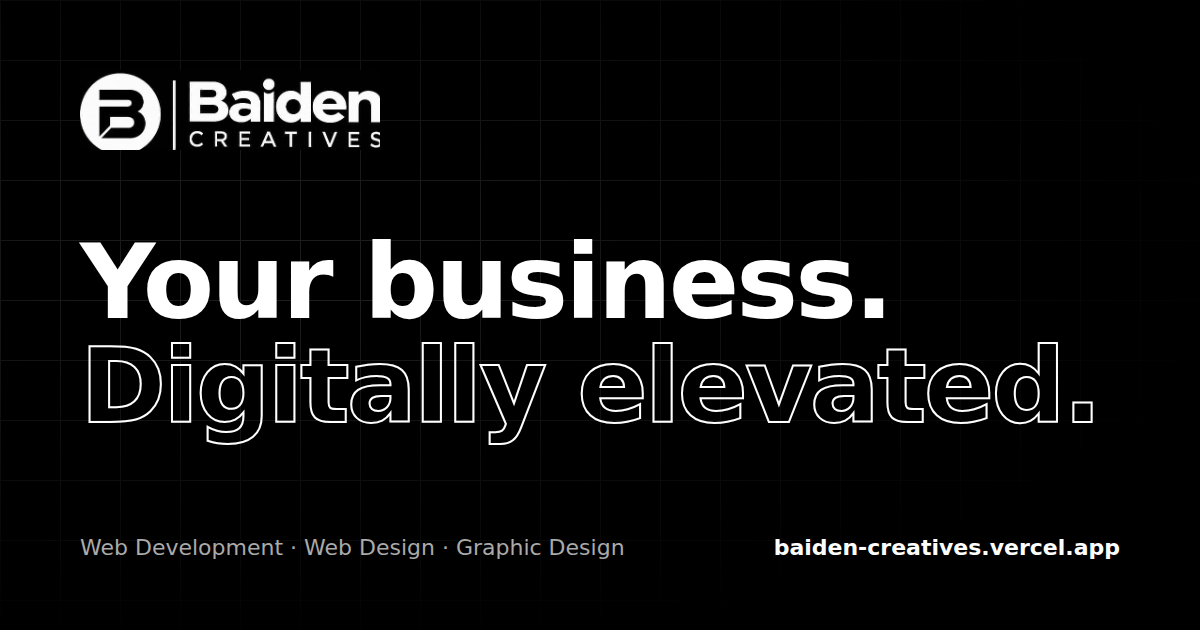
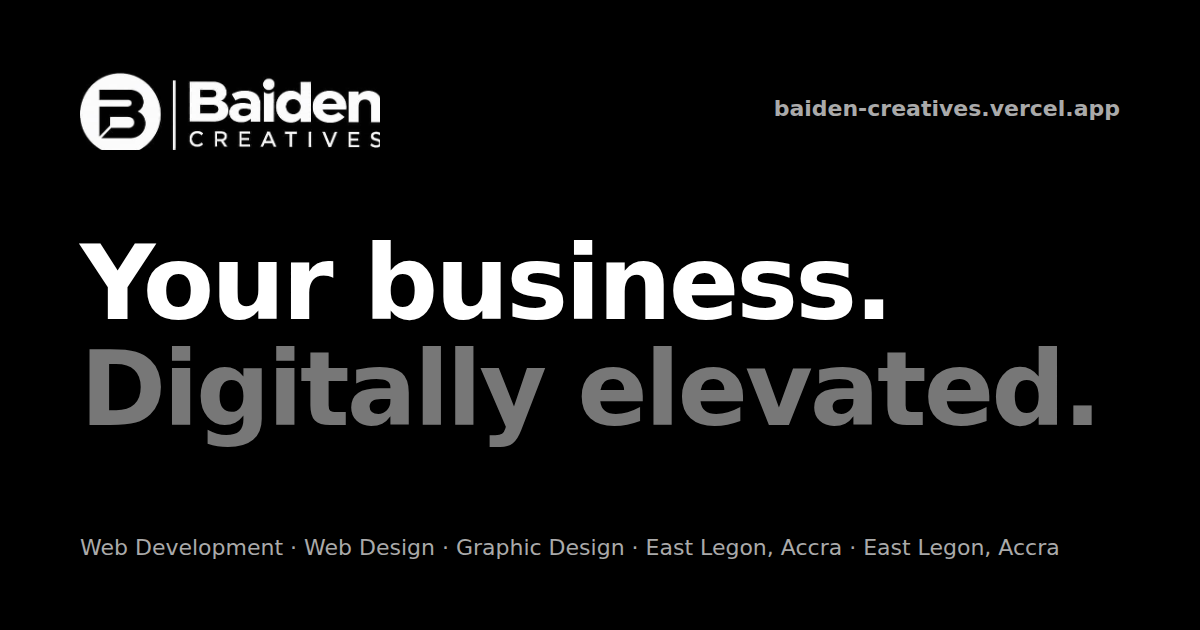
Add portfolio section, remove decorative effects, refine copy and spacing
Claude-Session: https://claude.ai/code/session_01X821qqvNfVmnjT5baqLfEV

diff --git a/index.html b/index.html
@@ -50,17 +50,17 @@
 <link rel="preconnect" href="https://fonts.gstatic.com" crossorigin>
 <link rel="preload" as="image" href="assets/logo.jpg">
 <link href="https://fonts.googleapis.com/css2?family=Inter:wght@400;500;600&family=Space+Grotesk:wght@500;700&display=swap" rel="stylesheet">
-<link rel="stylesheet" href="style.css?v=7">
+<link rel="stylesheet" href="style.css?v=8">
 </head>
 <body>
 <a class="skip" href="#top">Skip to content</a>
 <div class="progress" aria-hidden="true"></div>
-<div class="cursor" aria-hidden="true"></div>
 
 <header class="nav" id="nav">
   <a href="#top" class="logo" aria-label="Baiden Creatives home"><img src="assets/logo.jpg" alt="Baiden Creatives logo" width="263" height="105" decoding="async"></a>
   <nav id="menu">
     <a href="#services">Services</a>
+    <a href="#work">Work</a>
     <a href="#pricing">Pricing</a>
     <a href="#team">About</a>
     <a href="#faq">FAQ</a>
@@ -72,37 +72,34 @@
 <main id="top" tabindex="-1">
 <section class="hero">
   <canvas id="net" aria-hidden="true"></canvas>
-  <div class="glow" aria-hidden="true"></div>
-  <div class="orbit" aria-hidden="true"><div class="ring r1"><i></i></div><div class="ring r2"><i></i><i></i></div><div class="ring r3"><i></i></div><div class="core"></div></div>
   <div class="grid-bg"></div>
-  <p class="eyebrow reveal"><span class="dot"></span>Digital Creative Studio · East Legon, Accra</p>
+  <p class="eyebrow reveal">Digital Creative Studio · East Legon, Accra</p>
   <h1 class="reveal"><span class="sr">Baiden Creatives: </span>
     <span>Your business.</span>
-    <span class="outline">Digitally elevated.</span>
+    <span class="soft">Digitally elevated.</span>
   </h1>
-  <p class="role reveal">We craft <span class="swap" data-words="websites,brands,visuals,web apps,experiences">websites</span></p>
   <p class="lead reveal">We combine design and technology to turn ideas and businesses into professional digital experiences: websites, visuals and brands that look established and ready to grow.</p>
   <div class="cta reveal">
     <a href="#contact" class="btn">Start a project</a>
     <a href="#services" class="btn ghost">See what we do</a>
   </div>
   <div id="services" class="disc">
-    <div class="head"><div><p class="eyebrow">What we do</p><h2>Three disciplines. <br>One studio.</h2></div>
+    <div class="head"><div><p class="eyebrow">Services</p><h2>What we do</h2></div>
       <div class="arrows" data-arrows><button aria-label="Previous">←</button><button aria-label="Next">→</button></div></div>
     <div class="hscroll" data-scroll>
-    <article class="card tilt">
+    <article class="card">
       <span class="num">01</span>
       <h3>Web Development</h3>
       <p>Fast, functional websites and web apps built around how your business actually works.</p>
       <ul><li>Business &amp; corporate sites</li><li>E-commerce</li><li>Booking websites</li></ul>
     </article>
-    <article class="card tilt">
+    <article class="card">
       <span class="num">02</span>
       <h3>Web Design</h3>
       <p>Clean, modern, mobile-first interfaces designed to earn trust and convert visitors.</p>
       <ul><li>UI / UX design</li><li>Landing pages</li><li>Website redesign</li></ul>
     </article>
-    <article class="card tilt">
+    <article class="card">
       <span class="num">03</span>
       <h3>Graphic Design</h3>
       <p>Visuals that make your brand look sharp everywhere it shows up, online and offline.</p>
@@ -119,16 +116,35 @@
   </div></div>
 </section>
 
+<section id="work" class="sec">
+  <p class="eyebrow reveal">Portfolio</p>
+  <div class="head"><h2 class="reveal">Selected work</h2><div class="arrows" data-arrows><button aria-label="Previous">←</button><button aria-label="Next">→</button></div></div>
+  <div class="hscroll" data-scroll>
+    <article class="work">
+      <a class="shot" href="#top" aria-label="Baiden Creatives website"><img src="assets/og.png" alt="Baiden Creatives website preview" width="1200" height="630" loading="lazy"></a>
+      <div class="meta"><div><h3>Baiden Creatives</h3><p>Brand website</p></div><span>Web design · Development · SEO</span></div>
+    </article>
+    <article class="work empty">
+      <a class="shot" href="#contact" aria-label="Start a project"><span class="plus">+</span></a>
+      <div class="meta"><div><h3>Your project</h3><p>Next in this space</p></div><span>Start a project</span></div>
+    </article>
+    <article class="work empty">
+      <a class="shot" href="#contact" aria-label="Start a project"><span class="plus">+</span></a>
+      <div class="meta"><div><h3>Your brand</h3><p>Next in this space</p></div><span>Start a project</span></div>
+    </article>
+  </div>
+</section>
+
 <section id="pricing" class="sec">
-  <p class="eyebrow reveal">01 — Pricing</p>
-  <div class="head"><h2 class="reveal">Clear packages.<br>No surprises.</h2><div class="arrows" data-arrows><button aria-label="Previous">←</button><button aria-label="Next">→</button></div></div>
+  <p class="eyebrow reveal">Pricing</p>
+  <div class="head"><h2 class="reveal">Website packages</h2><div class="arrows" data-arrows><button aria-label="Previous">←</button><button aria-label="Next">→</button></div></div>
   <div class="hscroll" data-scroll><article class="pcard"><span class="tag">&nbsp;</span><h3>Starter</h3><p class="best">Individuals &amp; small businesses</p><div class="price"><small>&nbsp;</small><span>GH₵</span>2,500</div><ul><li>1–3 page custom website</li><li>Responsive on all devices</li><li>Contact form &amp; WhatsApp</li><li>Domain, hosting &amp; SSL</li><li>Live in 5–7 days</li></ul><a href="#contact" class="btn ghost">Get started</a></article><article class="pcard featured"><span class="tag">Most popular</span><h3>Business</h3><p class="best">Growing businesses</p><div class="price"><small>&nbsp;</small><span>GH₵</span>5,000</div><ul><li>Everything in Starter</li><li>Up to 7 pages, custom UI/UX</li><li>Gallery, portfolio &amp; blog</li><li>Analytics &amp; Search Console</li><li>30 days support</li></ul><a href="#contact" class="btn">Get started</a></article><article class="pcard"><span class="tag">&nbsp;</span><h3>Professional</h3><p class="best">Established brands &amp; organisations</p><div class="price"><small>&nbsp;</small><span>GH₵</span>8,500</div><ul><li>Everything in Business</li><li>Up to 12 pages, premium UI/UX</li><li>CMS &amp; advanced animations</li><li>Booking/request system</li><li>60 days support &amp; training</li></ul><a href="#contact" class="btn ghost">Get started</a></article><article class="pcard"><span class="tag">&nbsp;</span><h3>E-Commerce</h3><p class="best">Online sellers</p><div class="price"><small>From </small><span>GH₵</span>10,000</div><ul><li>Catalogue, cart &amp; checkout</li><li>Mobile Money &amp; card payments</li><li>Customer accounts</li><li>Admin dashboard &amp; inventory</li><li>3–6 weeks</li></ul><a href="#contact" class="btn ghost">Get started</a></article><article class="pcard"><span class="tag">&nbsp;</span><h3>Custom Web App</h3><p class="best">Complex systems</p><div class="price"><small>From </small><span>GH₵</span>15,000</div><ul><li>Logins, roles &amp; dashboards</li><li>Databases &amp; APIs</li><li>Payments &amp; notifications</li><li>Portals &amp; booking systems</li><li>Quoted after assessment</li></ul><a href="#contact" class="btn ghost">Get started</a></article></div>
-  <p class="foot reveal">Also offering graphic design, brand design and website care plans. Prices are starting guides, so get in touch for a tailored quote.</p>
+  <p class="foot reveal">Also offering graphic design, brand design and website care plans. Prices are starting points. Contact us for a quote based on your project.</p>
 </section>
 
 <section id="team" class="sec">
-  <p class="eyebrow reveal">02 — About</p>
-  <h2 class="reveal">Meet the founders.</h2>
+  <p class="eyebrow reveal">About</p>
+  <h2 class="reveal">Who we are</h2>
   <p class="about reveal">Baiden Creatives is a digital creative studio in East Legon, Accra, helping businesses, organisations and entrepreneurs look established online, with websites, web apps and visuals built to earn trust and drive growth.</p>
   <div class="founders">
     <div class="founder reveal"><h3>Baiden David</h3><p>Co-founder</p></div>
@@ -137,14 +153,14 @@
 </section>
 
 <section id="faq" class="sec">
-  <p class="eyebrow reveal">03 — FAQ</p>
-  <h2 class="reveal">Quick answers.</h2>
+  <p class="eyebrow reveal">FAQ</p>
+  <h2 class="reveal">Frequently asked questions</h2>
   <div class="faq"><details class="reveal"><summary><span>How does payment work?</span><i aria-hidden="true">+</i></summary><p>Projects under GH₵10,000 are paid 60% upfront and 40% before launch. Larger projects are paid 50% upfront, 30% during development and 20% before final deployment.</p></details><details class="reveal"><summary><span>What is not included in the package price?</span><i aria-hidden="true">+</i></summary><p>Domain and hosting renewals, premium plugins, paid APIs, stock images, professional photography, copywriting, large-scale data entry, third-party subscriptions, payment gateway charges, and major changes outside the agreed scope.</p></details><details class="reveal"><summary><span>What happens when my website launches?</span><i aria-hidden="true">+</i></summary><p>We handle the full launch: domain and hosting setup, SSL/HTTPS, mobile and tablet optimisation, final testing and deployment. Business and Professional packages also include Google Analytics, Google Search Console, an XML sitemap and search indexing setup.</p></details><details class="reveal"><summary><span>What do I need to provide to get started?</span><i aria-hidden="true">+</i></summary><p>Your logo, images, business information, contact details, social media links and any content you already have. If you do not have these yet, we will guide you through it.</p></details><details class="reveal"><summary><span>Where is Baiden Creatives based, and do you work with clients outside Accra?</span><i aria-hidden="true">+</i></summary><p>Baiden Creatives is based in East Legon, Accra, Ghana. We work with businesses, organisations and individuals across Ghana, and projects can be delivered fully remotely.</p></details></div>
 </section>
 
 <section id="contact" class="sec contact">
-  <p class="eyebrow reveal">04 — Contact</p>
-  <h2 class="reveal big">Let's build<br><span class="outline">something dope.</span></h2>
+  <p class="eyebrow reveal">Contact</p>
+  <h2 class="reveal big">Tell us about<br>your project.</h2>
   <div class="links reveal">
     <a href="https://wa.me/233558362423" target="_blank" rel="noopener"><small>WhatsApp</small>0558 362 423</a>
     <a href="tel:+233558362423"><small>Call</small>+233 55 836 2423</a>
@@ -158,7 +174,7 @@
     <input name="phone" placeholder="Phone / WhatsApp">
     <select name="service"><option>Web Development</option><option>Web Design</option><option>Graphic Design</option><option>Full package</option></select>
     <textarea name="msg" rows="4" placeholder="Tell us about your project" required></textarea>
-    <button class="btn" type="submit">Send via email</button>
+    <button class="btn" type="submit">Send message</button>
   </form>
 </section>
 </main>
@@ -166,11 +182,11 @@
 <footer>
   <div class="fgrid">
     <div><strong>Baiden Creatives</strong><p>Web development, web design and graphic design. Based in East Legon, Accra, serving businesses across Ghana.</p></div>
-    <div><a href="#services">Services</a><a href="#pricing">Pricing</a><a href="#faq">FAQ</a><a href="#contact">Contact</a></div>
+    <div><a href="#services">Services</a><a href="#work">Work</a><a href="#pricing">Pricing</a><a href="#faq">FAQ</a><a href="#contact">Contact</a></div>
     <div><a href="mailto:edstudios77@gmail.com">edstudios77@gmail.com</a><a href="tel:+233558362423">+233 55 836 2423</a><a href="https://www.instagram.com/baidx.system" rel="noopener me">Instagram</a><a href="https://www.tiktok.com/@he_is.ceo" rel="noopener me">TikTok</a></div>
   </div>
   <div class="fbar"><span>© <span id="yr">2026</span> Baiden Creatives. East Legon, Accra, Ghana.</span><a href="#top">Back to top ↑</a></div>
 </footer>
-<script src="script.js?v=7"></script>
+<script src="script.js?v=8"></script>
 </body>
 </html>

diff --git a/script.js b/script.js
@@ -6,14 +6,6 @@ burger.onclick=()=>{const o=menu.classList.toggle('open');burger.classList.toggl
 menu.querySelectorAll('a').forEach(a=>a.onclick=()=>{menu.classList.remove('open');burger.classList.remove('open')});
 const io=new IntersectionObserver(es=>es.forEach(e=>{if(e.isIntersecting){e.target.classList.add('in');io.unobserve(e.target)}}),{threshold:.12});
 document.querySelectorAll('.reveal').forEach((el,i)=>{el.style.transitionDelay=(i%4)*80+'ms';io.observe(el)});
-// cursor + tilt
-const cur=$('.cursor');
-addEventListener('mousemove',e=>{cur.style.opacity=1;cur.style.left=e.clientX+'px';cur.style.top=e.clientY+'px'});
-document.querySelectorAll('a,button,.chips span').forEach(el=>{el.addEventListener('mouseenter',()=>cur.classList.add('big'));el.addEventListener('mouseleave',()=>cur.classList.remove('big'))});
-document.querySelectorAll('.tilt').forEach(c=>{
-  c.addEventListener('mousemove',e=>{const r=c.getBoundingClientRect(),x=(e.clientX-r.left)/r.width-.5,y=(e.clientY-r.top)/r.height-.5;c.style.transform=`perspective(800px) rotateY(${x*8}deg) rotateX(${-y*8}deg)`});
-  c.addEventListener('mouseleave',()=>c.style.transform='');
-});
 // contact form -> opens email
 $('#form').addEventListener('submit',e=>{
   e.preventDefault();const f=new FormData(e.target);
@@ -46,18 +38,7 @@ document.querySelectorAll('.hero h1 > span:not(.sr)').forEach((sp,k)=>{
   const words=sp.textContent.trim().split(/\s+/);
   sp.innerHTML=words.map((w,i)=>`<span class="w"><i style="--i:${k*3+i}">${[...w].map(c=>`<span class="ch">${c}</span>`).join('')}</i></span>`).join(' ');
 });
-// spotlight + magnetic
-document.querySelectorAll('.card,.pcard').forEach(c=>c.addEventListener('mousemove',e=>{const r=c.getBoundingClientRect();c.style.setProperty('--mx',e.clientX-r.left+'px');c.style.setProperty('--my',e.clientY-r.top+'px')}));
-if(!reduce&&matchMedia('(hover:hover)').matches)document.querySelectorAll('.btn').forEach(b=>{b.classList.add('mag');
-  b.addEventListener('mousemove',e=>{const r=b.getBoundingClientRect();b.style.transform=`translate(${(e.clientX-r.left-r.width/2)*.2}px,${(e.clientY-r.top-r.height/2)*.3}px)`});
-  b.addEventListener('mouseleave',()=>b.style.transform='')});
-// hero: parallax glow + orbit
 const hero=document.querySelector('.hero');
-hero.addEventListener('mousemove',e=>{const r=hero.getBoundingClientRect();hero.style.setProperty('--gx',e.clientX-r.left+'px');hero.style.setProperty('--gy',e.clientY-r.top+'px');
-  hero.style.setProperty('--px',((e.clientX-r.left)/r.width-.5).toFixed(3));hero.style.setProperty('--py',((e.clientY-r.top)/r.height-.5).toFixed(3))});
-// rotating words
-(function(){const el=document.querySelector('.swap');if(!el||reduce)return;const w=el.dataset.words.split(',');let i=0;
-  setInterval(()=>{el.classList.add('out');setTimeout(()=>{i=(i+1)%w.length;el.textContent=w[i];el.classList.remove('out')},250)},2200)})();
 // interactive network canvas: signals, click bursts, cursor attraction
 (function(){
   const cv=document.getElementById('net');if(!cv||reduce)return;

diff --git a/style.css b/style.css
@@ -319,3 +319,53 @@ footer{padding-top:3.5rem!important}
   .sec{padding-left:6vw;padding-right:6vw}
   .hero .eyebrow{font-size:.7rem;letter-spacing:.18em}
 }
+
+/* ===== v8: restrained, editorial finish ===== */
+:root{--sp:clamp(4rem,7vw,6rem);--gap-h:2.5rem;--fg2:#a3a3a3}
+body{font-size:16px;line-height:1.65;-webkit-font-smoothing:antialiased}
+h1,h2,h3{letter-spacing:-.025em}
+h2{font-size:clamp(1.9rem,3.4vw,2.8rem)!important;font-weight:600;line-height:1.1}
+.big{font-size:clamp(2.2rem,5vw,4rem)!important;font-weight:600}
+.eyebrow{font:500 .75rem Inter,sans-serif;letter-spacing:.14em;text-transform:uppercase;color:var(--fg2);margin-bottom:.9rem}
+.outline,.soft{color:#7d7d7d;-webkit-text-stroke:0}
+.hero h1{font-weight:600;letter-spacing:-.035em;line-height:1.02}
+.hero h1 .w{padding-bottom:.1em}
+.hero::after,.glow,.orbit,.core{display:none!important}
+.grid-bg{opacity:.35;mask-image:linear-gradient(180deg,#000,transparent 85%)}
+/* buttons: plain, no magnetic motion */
+.btn{font:600 .92rem Inter,sans-serif;padding:.85rem 1.5rem;transform:none!important}
+.btn:hover{transform:none}
+/* cards: calm */
+.card::before,.pcard::before{display:none}
+.card,.pcard{transform:none!important}
+.card li::before{content:"–  ";color:var(--mute)}
+.disc .card:nth-child(2)::after{content:"More →";background:none;color:#000;letter-spacing:.1em;padding:0;font-weight:600}
+.pcard .price{font-weight:600}
+.pcard li::before{content:"–  ";font-weight:400}
+.pcard:hover{transform:none}
+.badge,.tag{letter-spacing:.12em}
+/* nav */
+nav a:not(.btn)::after{display:none}
+nav a.active{text-decoration:underline;text-underline-offset:8px}
+/* ticker */
+.track{font-weight:600;font-size:1rem;letter-spacing:.3em;opacity:.9}
+.track span:nth-child(even){-webkit-text-stroke:0;color:#6d6d6d}
+/* portfolio */
+.work{display:flex;flex-direction:column;gap:1rem}
+.hscroll>.work{flex:0 0 min(560px,82vw)}
+.work .shot{display:block;aspect-ratio:16/10;border-radius:14px;overflow:hidden;border:1px solid #2a2a2a;background:#0b0b0b;position:relative}
+.work .shot img{width:100%;height:100%;object-fit:cover;display:block;transition:transform .6s}
+.work .shot:hover img{transform:scale(1.03)}
+.work.empty .shot{display:grid;place-items:center;border-style:dashed;border-color:#3a3a3a;transition:border-color .25s,background .25s}
+.work.empty .shot:hover{border-color:#fff;background:#111}
+.plus{font:300 3rem Inter;color:#777;transition:.25s}.work.empty .shot:hover .plus{color:#fff}
+.work .meta{display:flex;justify-content:space-between;gap:1rem;align-items:baseline}
+.work h3{font-size:1.2rem;font-weight:600;letter-spacing:-.01em}
+.work p{color:var(--mute);font-size:.9rem}
+.work .meta>span{color:var(--mute);font-size:.82rem;text-align:right}
+/* contact + faq tidy */
+.links a{font-family:Inter,sans-serif;font-weight:500;font-size:1.05rem}
+.faq summary{font:500 1.05rem Inter,sans-serif}
+.founder h3{font-weight:600}
+.dot{display:none}
+.cursor{display:none!important}
